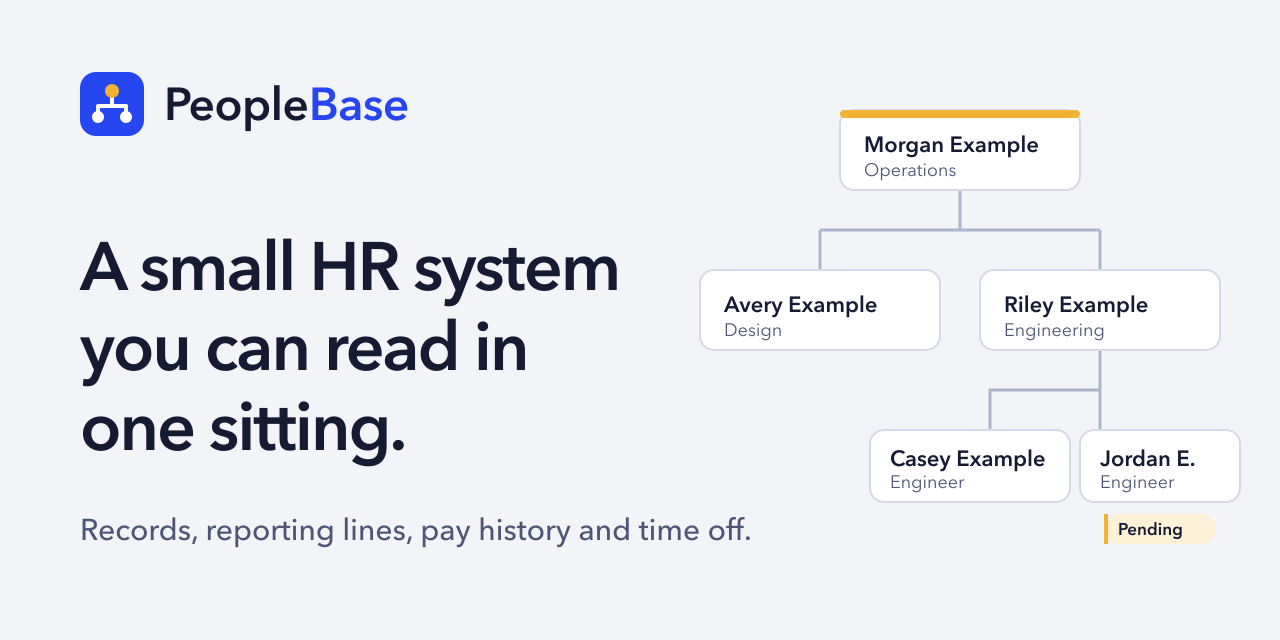
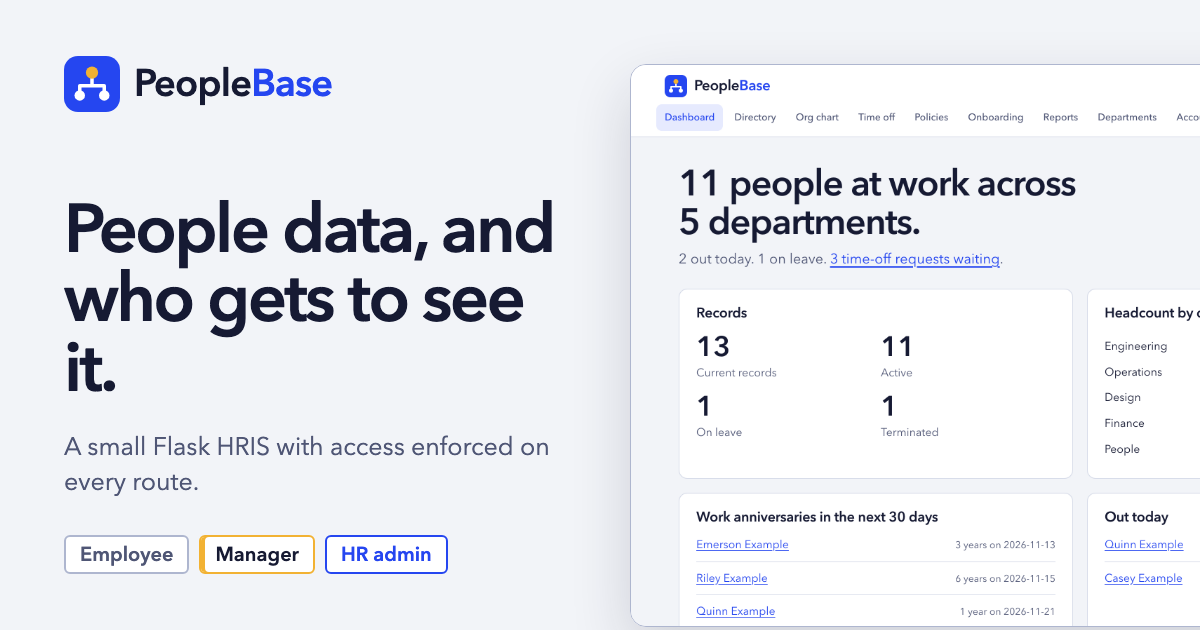
feat(site): rebuild the project page around the security model
A diagram of what a manager can reach, the role table, the gates every
request passes, light and dark screenshots captured from the running app, and
a new 1200x630 social card built from the real dashboard.

diff --git a/site/index.html b/site/index.html
@@ -3,20 +3,23 @@
 <head>
 <meta charset="utf-8">
 <meta name="viewport" content="width=device-width, initial-scale=1">
-<title>PeopleBase: a small HR system you can read in one sitting</title>
-<meta name="description" content="PeopleBase is an open source Flask and SQLAlchemy HR system: employee records, departments, reporting lines, compensation history, time off with manager approval, and a people dashboard.">
+<title>PeopleBase: a small HRIS with real access control</title>
+<meta name="description" content="PeopleBase is an open source Flask HRIS: sign-in with three roles, access enforced on every route, pay history, time off with leave balances, onboarding checklists, policy sign-off and an append-only audit log.">
 <meta name="color-scheme" content="light dark">
 <meta name="theme-color" content="#2546f0">
 <link rel="canonical" href="https://patrickking67.github.io/peoplebase/">
 <meta property="og:title" content="PeopleBase">
-<meta property="og:description" content="A small HR system you can read in one sitting: records, reporting lines, pay history and time off, in Flask and SQLAlchemy.">
+<meta property="og:description" content="People data, and who gets to see it. A small Flask HRIS with three roles, one policy module and a test for every way around it.">
 <meta property="og:type" content="website">
 <meta property="og:url" content="https://patrickking67.github.io/peoplebase/">
 <meta property="og:image" content="https://patrickking67.github.io/peoplebase/social-preview.png">
-<meta property="og:image:width" content="1280">
-<meta property="og:image:height" content="640">
-<meta property="og:image:alt" content="The PeopleBase logo next to a small org chart and the line: a small HR system you can read in one sitting.">
+<meta property="og:image:width" content="1200">
+<meta property="og:image:height" content="630">
+<meta property="og:image:alt" content="The PeopleBase logo and the line: people data, and who gets to see it, next to the PeopleBase dashboard.">
 <meta name="twitter:card" content="summary_large_image">
+<meta name="twitter:title" content="PeopleBase">
+<meta name="twitter:description" content="People data, and who gets to see it. A small Flask HRIS with three roles, one policy module and a test for every way around it.">
+<meta name="twitter:image" content="https://patrickking67.github.io/peoplebase/social-preview.png">
 <link rel="icon" href="favicon.ico" sizes="32x32">
 <link rel="icon" href="favicon.svg" type="image/svg+xml">
 <link rel="apple-touch-icon" href="apple-touch-icon.png">
@@ -56,7 +59,7 @@
   .top nav { display: flex; gap: 20px; font-size: .9375rem; }
 
   .hero { display: grid; grid-template-columns: minmax(0, 1fr); gap: 40px; padding-top: 48px; padding-bottom: 64px; }
-  .hero h1 { max-width: 13ch; font-size: clamp(2.5rem, 1.4rem + 4.6vw, 4.75rem); letter-spacing: -.035em; line-height: 1.02; }
+  .hero h1 { max-width: 12ch; font-size: clamp(2.5rem, 1.4rem + 4.6vw, 4.75rem); letter-spacing: -.035em; line-height: 1.02; }
   .lede { max-width: 56ch; margin-top: 22px; color: var(--muted); font-size: clamp(1.125rem, 1rem + .5vw, 1.3rem); line-height: 1.5; }
   .actions { display: flex; flex-wrap: wrap; gap: 12px; margin-top: 30px; }
   .button { display: inline-flex; align-items: center; min-height: 46px; padding: 10px 20px; color: var(--brand-ink); background: var(--brand); border: 1px solid var(--brand); border-radius: 8px; font-weight: 600; font-size: .9375rem; text-decoration: none; }
@@ -65,7 +68,7 @@
   .button-quiet:hover { filter: none; background: var(--paper); }
 
   .shot { margin: 0; }
-  .shot img { display: block; width: 100%; height: auto; border: 1px solid var(--line-strong); border-radius: 14px; background: #0e1124; }
+  .shot img { display: block; width: 100%; height: auto; border: 1px solid var(--line-strong); border-radius: 14px; background: var(--surface); }
   .shot figcaption { margin-top: 12px; color: var(--muted); font-size: .9375rem; }
 
   section { padding: 64px 0; border-top: 1px solid var(--line); }
@@ -97,16 +100,48 @@
   table { width: 100%; border-collapse: collapse; font-size: 1rem; }
   th, td { padding: 12px 16px 12px 0; text-align: left; border-bottom: 1px solid var(--line); vertical-align: top; }
   th { color: var(--muted); font-size: .875rem; font-weight: 600; }
-  .note { margin-top: 28px; padding: 16px 20px; background: var(--marigold-soft); border-left: 4px solid var(--marigold); border-radius: 8px; max-width: 70ch; }
 
   footer { padding: 32px 0 48px; color: var(--muted); border-top: 1px solid var(--line); font-size: .9375rem; }
   footer .wrap { display: flex; flex-wrap: wrap; justify-content: space-between; gap: 8px 24px; }
 
+  /* Security model: the reach diagram is the one loud thing on the page. */
+  .reach { display: grid; grid-template-columns: minmax(0, 1.15fr) minmax(0, 1fr); gap: 40px 56px; align-items: center; }
+  .reach svg { display: block; width: 100%; height: auto; }
+  .reach svg text { font-family: var(--font); fill: var(--ink); }
+  .reach svg .sub { fill: var(--muted); }
+  .reach svg .link { fill: none; stroke: var(--line-strong); stroke-width: 2; }
+  .reach svg .node rect { fill: var(--surface); stroke: var(--line-strong); stroke-width: 1.5; }
+  .reach svg .in rect { fill: var(--brand-soft); stroke: var(--brand); stroke-width: 2; }
+  .reach svg .self rect { fill: var(--marigold-soft); stroke: var(--marigold); stroke-width: 2.5; }
+  .reach svg .out { opacity: .72; }
+  .legend { display: grid; gap: 14px; margin: 0; padding: 0; list-style: none; }
+  .legend li { display: grid; grid-template-columns: 18px minmax(0, 1fr); gap: 12px; align-items: start; }
+  .legend i { width: 18px; height: 18px; margin-top: 4px; border-radius: 5px; border: 2px solid var(--line-strong); background: var(--surface); }
+  .legend .k-self { border-color: var(--marigold); background: var(--marigold-soft); }
+  .legend .k-in { border-color: var(--brand); background: var(--brand-soft); }
+  .legend strong { display: block; }
+  .legend span { color: var(--muted); }
+  .roles { margin-top: 44px; }
+  .roles th[scope="row"] { color: var(--ink); font-size: 1rem; white-space: nowrap; }
+
+  .gates { counter-reset: gate; display: grid; grid-template-columns: repeat(auto-fit, minmax(min(100%, 210px), 1fr)); gap: 0 28px; margin: 0; padding: 0; list-style: none; }
+  .gates li { counter-increment: gate; padding: 18px 0 20px; border-top: 3px solid var(--brand); }
+  .gates li::before { content: counter(gate); display: block; color: var(--brand); font-weight: 600; font-variant-numeric: tabular-nums; }
+  .gates strong { display: block; margin-top: 2px; font-size: 1.1rem; }
+  .gates span { display: block; margin-top: 6px; color: var(--muted); font-size: .9375rem; }
+  .gates code { color: var(--ink); }
+
+  .screens { display: grid; grid-template-columns: repeat(2, minmax(0, 1fr)); gap: 36px 32px; }
+  .screens .shot figcaption strong { color: var(--ink); }
+
+  footer nav { display: flex; flex-wrap: wrap; gap: 6px 20px; }
+
   @media (min-width: 980px) {
+    .gates { grid-template-columns: repeat(5, minmax(0, 1fr)); }
     .hero { grid-template-columns: minmax(0, .85fr) minmax(0, 1.15fr); align-items: center; padding-top: 64px; }
   }
   @media (max-width: 760px) {
-    .proof { grid-template-columns: minmax(0, 1fr); gap: 28px; }
+    .proof, .reach, .screens { grid-template-columns: minmax(0, 1fr); gap: 28px; }
     .top nav a:not(:last-child) { display: none; }
     section { padding: 48px 0; }
   }
@@ -127,7 +162,8 @@
     <span>People<span>Base</span></span>
   </a>
   <nav aria-label="Project links">
-    <a href="#features">Features</a>
+    <a href="#security">Security model</a>
+    <a href="#screens">Screens</a>
     <a href="#run">Run it</a>
     <a href="https://github.com/patrickking67/peoplebase">GitHub</a>
   </nav>
@@ -136,32 +172,128 @@
 <main id="main">
   <div class="wrap hero">
     <div>
-      <h1>A small HR system you can read in one sitting.</h1>
-      <p class="lede">PeopleBase keeps employee records, departments, reporting lines, pay history and time off for a small team. It is one Flask file, a handful of templates and a test suite that covers every rule.</p>
+      <h1>People data, and who gets to see it.</h1>
+      <p class="lede">PeopleBase is a small HRIS in Flask: records, pay history, time off, onboarding, policies and an audit log. Employees, managers and HR sign in, and the server decides on every request what each of them may open.</p>
       <div class="actions">
         <a class="button" href="https://github.com/patrickking67/peoplebase">View the source</a>
-        <a class="button button-quiet" href="https://github.com/patrickking67/peoplebase/blob/main/docs/architecture.md">Read the architecture</a>
+        <a class="button button-quiet" href="https://github.com/patrickking67/peoplebase/blob/main/docs/security.md">Read the security model</a>
       </div>
     </div>
     <figure class="shot">
-      <img src="screenshot-dashboard.png" width="1200" height="750" alt="The PeopleBase dashboard in dark mode: 11 people at work across 5 departments, headcount bars by department, upcoming work anniversaries and who is out today." fetchpriority="high">
-      <figcaption>The dashboard, loaded with the built-in demo data.</figcaption>
+      <picture>
+        <source media="(prefers-color-scheme: dark)" srcset="assets/dashboard-dark.webp">
+        <img src="assets/dashboard-light.webp" width="2560" height="1600" alt="The PeopleBase dashboard signed in as an HR admin: 11 people at work across 5 departments, headcount bars by department, upcoming work anniversaries and who is out today." fetchpriority="high">
+      </picture>
+      <figcaption>The HR dashboard with the built-in demo company. Everyone in it is made up.</figcaption>
     </figure>
   </div>
+
+  <section id="security">
+    <div class="wrap">
+      <div class="section-head">
+        <h2>The security model</h2>
+        <p>A role grants a capability. The reporting line decides how far it reaches. One module, <a href="https://github.com/patrickking67/peoplebase/blob/main/access.py"><code>access.py</code></a>, makes every decision.</p>
+      </div>
+      <div class="reach">
+        <svg viewBox="0 0 600 318" role="img" aria-labelledby="reach-title reach-desc">
+          <title id="reach-title">What Riley, a manager, can open</title>
+          <desc id="reach-desc">An org chart. Morgan is at the top with three reports: Riley, Harper and Emerson. Casey and Jordan report to Riley. Rowan reports to Harper. Riley's own box is marked as their own record, Casey and Jordan are marked as within reach, and Morgan, Harper, Emerson and Rowan are out of reach.</desc>
+          <path class="link" d="M300 62v32M140 94h380M140 94v30M360 94v30M520 94v30M140 186v32M70 218h140M70 218v30M210 218v30M360 186v62"/>
+          <g class="node out"><rect x="235" y="6" width="130" height="56" rx="10"/><text x="300" y="32" text-anchor="middle" font-size="16" font-weight="600">Morgan</text><text class="sub" x="300" y="51" text-anchor="middle" font-size="13">Manager</text></g>
+          <g class="node self"><rect x="65" y="124" width="150" height="62" rx="10"/><text x="140" y="150" text-anchor="middle" font-size="16" font-weight="600">Riley</text><text class="sub" x="140" y="169" text-anchor="middle" font-size="13">Manager, signed in</text></g>
+          <g class="node out"><rect x="295" y="124" width="130" height="62" rx="10"/><text x="360" y="150" text-anchor="middle" font-size="16" font-weight="600">Harper</text><text class="sub" x="360" y="169" text-anchor="middle" font-size="13">Manager</text></g>
+          <g class="node out"><rect x="455" y="124" width="130" height="62" rx="10"/><text x="520" y="150" text-anchor="middle" font-size="16" font-weight="600">Emerson</text><text class="sub" x="520" y="169" text-anchor="middle" font-size="13">HR admin</text></g>
+          <g class="node in"><rect x="5" y="248" width="130" height="62" rx="10"/><text x="70" y="274" text-anchor="middle" font-size="16" font-weight="600">Casey</text><text class="sub" x="70" y="293" text-anchor="middle" font-size="13">Employee</text></g>
+          <g class="node in"><rect x="145" y="248" width="130" height="62" rx="10"/><text x="210" y="274" text-anchor="middle" font-size="16" font-weight="600">Jordan</text><text class="sub" x="210" y="293" text-anchor="middle" font-size="13">Employee</text></g>
+          <g class="node out"><rect x="295" y="248" width="130" height="62" rx="10"/><text x="360" y="274" text-anchor="middle" font-size="16" font-weight="600">Rowan</text><text class="sub" x="360" y="293" text-anchor="middle" font-size="13">Employee</text></g>
+        </svg>
+        <ul class="legend">
+          <li><i class="k-self"></i><div><strong>Own record</strong><span>Profile, pay, leave balances, time off and checklist.</span></div></li>
+          <li><i class="k-in"></i><div><strong>Within reach</strong><span>Direct and indirect reports: profile, time off and checklists, and the say on their time off. Never their pay.</span></div></li>
+          <li><i></i><div><strong>Out of reach</strong><span>Peers, other teams and their own manager: a name in the directory and org chart, nothing more. Riley asking for Rowan's record gets the same 404 as a record that does not exist.</span></div></li>
+        </ul>
+      </div>
+      <div class="table-scroll roles">
+        <table>
+          <thead><tr><th scope="col">Role</th><th scope="col">Sees</th><th scope="col">Can change</th></tr></thead>
+          <tbody>
+            <tr><th scope="row">Employee</th><td>Own record, pay, leave balances and checklist; the directory and org chart</td><td>Own time-off requests, own policy acknowledgements, own password</td></tr>
+            <tr><th scope="row">Manager</th><td>The same, plus the records, time off and checklists of direct and indirect reports, without pay</td><td>Approve or deny reports' time off; tick their checklist tasks</td></tr>
+            <tr><th scope="row">HR admin</th><td>Everything, including pay, people who left, reports and the audit log</td><td>Records, departments, accounts and roles, policies</td></tr>
+          </tbody>
+        </table>
+      </div>
+    </div>
+  </section>
+
+  <section id="how">
+    <div class="wrap">
+      <div class="section-head">
+        <h2>How a request is checked</h2>
+        <p>Every request passes the same gates, in this order, before a route does anything.</p>
+      </div>
+      <ol class="gates">
+        <li><strong>Session</strong><span>The signed cookie must match an active account and its current nonce, and be under 12 hours old. Otherwise: the sign-in page.</span></li>
+        <li><strong>CSRF</strong><span>Every POST needs the per-session token, sign-in and sign-out included. Otherwise: <code>400</code>.</span></li>
+        <li><strong>Role</strong><span>HR-only actions answer <code>403</code> to everyone else, whatever id is in the URL.</span></li>
+        <li><strong>Reach</strong><span>The record is loaded, then checked against the caller's reporting tree. Out of reach: <code>404</code>.</span></li>
+        <li><strong>Audit</strong><span>A change and its audit entry are saved in one transaction. The log refuses edits and deletes.</span></li>
+      </ol>
+    </div>
+  </section>
+
+  <section id="screens">
+    <div class="wrap">
+      <div class="section-head">
+        <h2>What it looks like</h2>
+        <p>Captured from the running app with the demo data, in light or dark to match your system.</p>
+      </div>
+      <div class="screens">
+        <figure class="shot">
+          <picture>
+        <source media="(prefers-color-scheme: dark)" srcset="assets/approvals-dark.webp">
+        <img src="assets/approvals-light.webp" width="2560" height="1600" alt="A manager's time-off queue with two pending requests from their reports, each with Approve and Deny buttons. One notes that it is 2 working days more vacation than the person will have accrued by then." loading="lazy">
+      </picture>
+          <figcaption><strong>Approval queue.</strong> A manager sees requests from their reporting tree only, with a note when one runs past the leave balance.</figcaption>
+        </figure>
+        <figure class="shot">
+          <picture>
+        <source media="(prefers-color-scheme: dark)" srcset="assets/profile-dark.webp">
+        <img src="assets/profile-light.webp" width="2560" height="1600" alt="An employee profile seen by HR: employment details with salary, direct reports and a compensation history showing a hire and a promotion." loading="lazy">
+      </picture>
+          <figcaption><strong>Employee profile.</strong> Pay and its history show for HR and the employee, never for the manager.</figcaption>
+        </figure>
+        <figure class="shot">
+          <picture>
+        <source media="(prefers-color-scheme: dark)" srcset="assets/org-chart-dark.webp">
+        <img src="assets/org-chart-light.webp" width="2560" height="1600" alt="The org chart: the chief operating officer at the top with design, operations, people and engineering leads beneath and their reports under them." loading="lazy">
+      </picture>
+          <figcaption><strong>Org chart.</strong> Built from one manager field per person. Loops and self-management are refused.</figcaption>
+        </figure>
+        <figure class="shot">
+          <picture>
+        <source media="(prefers-color-scheme: dark)" srcset="assets/audit-log-dark.webp">
+        <img src="assets/audit-log-light.webp" width="2560" height="1600" alt="The audit log: rows for a sign-in, a directory CSV export, a completed checklist task and a pay change showing the old and new title and salary." loading="lazy">
+      </picture>
+          <figcaption><strong>Audit log.</strong> Who changed what, with old and new values. HR can read it; nobody can edit it.</figcaption>
+        </figure>
+      </div>
+    </div>
+  </section>
 
   <section id="features">
     <div class="wrap">
       <div class="section-head">
         <h2>What it keeps track of</h2>
-        <p>The everyday records a people lead at a small company needs, and nothing that needs a vendor contract.</p>
+        <p>The everyday records a people team at a small company needs.</p>
       </div>
       <dl class="features">
-        <div><dt>Employee records</dt><dd>Name, job title, salary, department, manager, start date and status: active, on leave or left.</dd></div>
-        <div><dt>Reporting lines</dt><dd>Pick a manager for anyone. Loops and self-management are refused, and the org chart draws the result.</dd></div>
-        <div><dt>Compensation history</dt><dd>Every title or salary change is kept with its effective date and reason, newest first on the profile.</dd></div>
-        <div><dt>Time off</dt><dd>Requests with dates, type and a note. The person's manager approves or denies; overlaps are caught.</dd></div>
-        <div><dt>Dashboard</dt><dd>Who is at work, headcount by department, anniversaries in the next 30 days and who is out today.</dd></div>
-        <div><dt>Directory and export</dt><dd>Search and filter by team, title and status, with payroll totals and a CSV of exactly what you see.</dd></div>
+        <div><dt>People and reporting lines</dt><dd>Records with department, manager, status, start date and last day, a searchable directory and the org chart.</dd></div>
+        <div><dt>Pay history</dt><dd>Every title or salary change with its effective date and reason, and a CSV export that spreadsheets cannot run as formulas.</dd></div>
+        <div><dt>Time off and leave balances</dt><dd>Requests, approval up the reporting line, and balances per leave type that accrue monthly in working days.</dd></div>
+        <div><dt>Onboarding and offboarding</dt><dd>A checklist for each new hire and each leaver. Marking someone as left turns off their account.</dd></div>
+        <div><dt>Policy acknowledgements</dt><dd>Published text never changes. A revision is a new version, and everyone is asked again.</dd></div>
+        <div><dt>Headcount and attrition</dt><dd>Twelve months of hires, leavers and headcount, with a CSV cut to the viewer's own reporting tree.</dd></div>
       </dl>
     </div>
   </section>
@@ -169,15 +301,15 @@
   <section id="details">
     <div class="wrap proof">
       <div>
-        <p class="count">192</p>
+        <p class="count">525</p>
         <p class="count-label">tests run on every pull request, on Python 3.11, 3.12 and 3.13.</p>
       </div>
       <ul class="checks">
-        <li><strong>Forms carry CSRF tokens</strong><span>Checked in constant time. Session cookies are HttpOnly and SameSite=Lax.</span></li>
-        <li><strong>A strict Content-Security-Policy</strong><span>No inline script anywhere, plus nosniff, frame denial and a 64 KiB request limit.</span></li>
-        <li><strong>Spreadsheet-safe CSV</strong><span>Cells that start with =, +, -, @, tab or carriage return are exported as text, not formulas.</span></li>
-        <li><strong>Validation at every boundary</strong><span>Plain-number salaries rounded to cents, real calendar dates, no control characters, ids the database can store.</span></li>
-        <li><strong>Upgrades in place</strong><span>Databases from earlier versions get the new columns on startup. No migration step to forget.</span></li>
+        <li><strong>16 abuse cases, each with a test</strong><span>Changing ids in URLs, forged form fields, session replay, password guessing, export scope and more, written down before the code.</span></li>
+        <li><strong>Every route declares who may call it</strong><span>One test holds the route-by-role table and fails when a route is added without an entry.</span></li>
+        <li><strong>Argon2id passwords and a lockout that leaks nothing</strong><span>Five failures lock an email for 15 minutes, whether or not it has an account.</span></li>
+        <li><strong>Migrations tested against old databases</strong><span>Three earlier schema shapes upgrade to one, checked on SQLite and PostgreSQL.</span></li>
+        <li><strong>The basics, kept</strong><span>CSRF on every form, a Content-Security-Policy without inline script, no-store pages and a 64 KiB request limit.</span></li>
       </ul>
     </div>
   </section>
@@ -186,45 +318,26 @@
     <div class="wrap">
       <div class="section-head">
         <h2>Run it locally</h2>
-        <p>Python 3.11 or newer. The demo data uses made-up people named "Example".</p>
+        <p>Python 3.11 or newer. The demo flag loads made-up people named "Example" and prints three sign-ins with a password generated for that run.</p>
       </div>
-<pre><code>git clone https://github.com/patrickking67/peoplebase.git
-cd peoplebase
-python3 -m venv .venv &amp;&amp; source .venv/bin/activate
-pip install -r requirements-dev.txt
-export SECRET_KEY="$(python -c 'import secrets; print(secrets.token_hex(32))')"
-flask --app app seed-demo              <span class="cmt"># optional demo data</span>
-flask --app app run --debug            <span class="cmt"># http://127.0.0.1:5000</span>
+<pre><code>git clone https://github.com/patrickking67/peoplebase.git &amp;&amp; cd peoplebase
+python3 -m venv .venv &amp;&amp; .venv/bin/pip install -r requirements-dev.txt
+./scripts/dev.sh --demo                <span class="cmt"># http://127.0.0.1:4104</span>
 
 ./scripts/check.sh                     <span class="cmt"># lint, tests and repo checks</span></code></pre>
-    </div>
-  </section>
-
-  <section id="config">
-    <div class="wrap">
-      <div class="section-head">
-        <h2>Configuration</h2>
-        <p>Environment variables. Only <code>SECRET_KEY</code> is required.</p>
-      </div>
-      <div class="table-scroll">
-        <table>
-          <thead><tr><th scope="col">Variable</th><th scope="col">What it does</th><th scope="col">Default</th></tr></thead>
-          <tbody>
-            <tr><td><code>SECRET_KEY</code></td><td>Signs the session cookie, flash messages and CSRF tokens</td><td>None. The app will not start without it.</td></tr>
-            <tr><td><code>DATABASE_URL</code></td><td>Any SQLAlchemy database URL</td><td>SQLite at <code>instance/employees.db</code></td></tr>
-            <tr><td><code>FLASK_DEBUG</code></td><td>Turns on the debugger for <code>python app.py</code></td><td>Off</td></tr>
-          </tbody>
-        </table>
-      </div>
-      <p class="note"><strong>PeopleBase has no sign-in.</strong> Anyone who can reach it can read and change every record. Keep it on a private network with demo data, or add authentication before it holds real people.</p>
     </div>
   </section>
 </main>
 
 <footer>
   <div class="wrap">
-    <span>MIT licensed. Built with Flask and SQLAlchemy.</span>
-    <span><a href="https://github.com/patrickking67/peoplebase">github.com/patrickking67/peoplebase</a></span>
+    <span>MIT licensed. Built by <a href="https://github.com/patrickking67">Patrick King</a> with Flask and SQLAlchemy.</span>
+    <nav aria-label="Footer">
+      <a href="https://github.com/patrickking67/peoplebase">Source</a>
+      <a href="https://github.com/patrickking67/peoplebase/blob/main/docs/security.md">Security model</a>
+      <a href="https://github.com/patrickking67/peoplebase/blob/main/docs/architecture.md">Architecture</a>
+      <a href="https://github.com/patrickking67/peoplebase/blob/main/README.md">README</a>
+    </nav>
   </div>
 </footer>
 </body>
